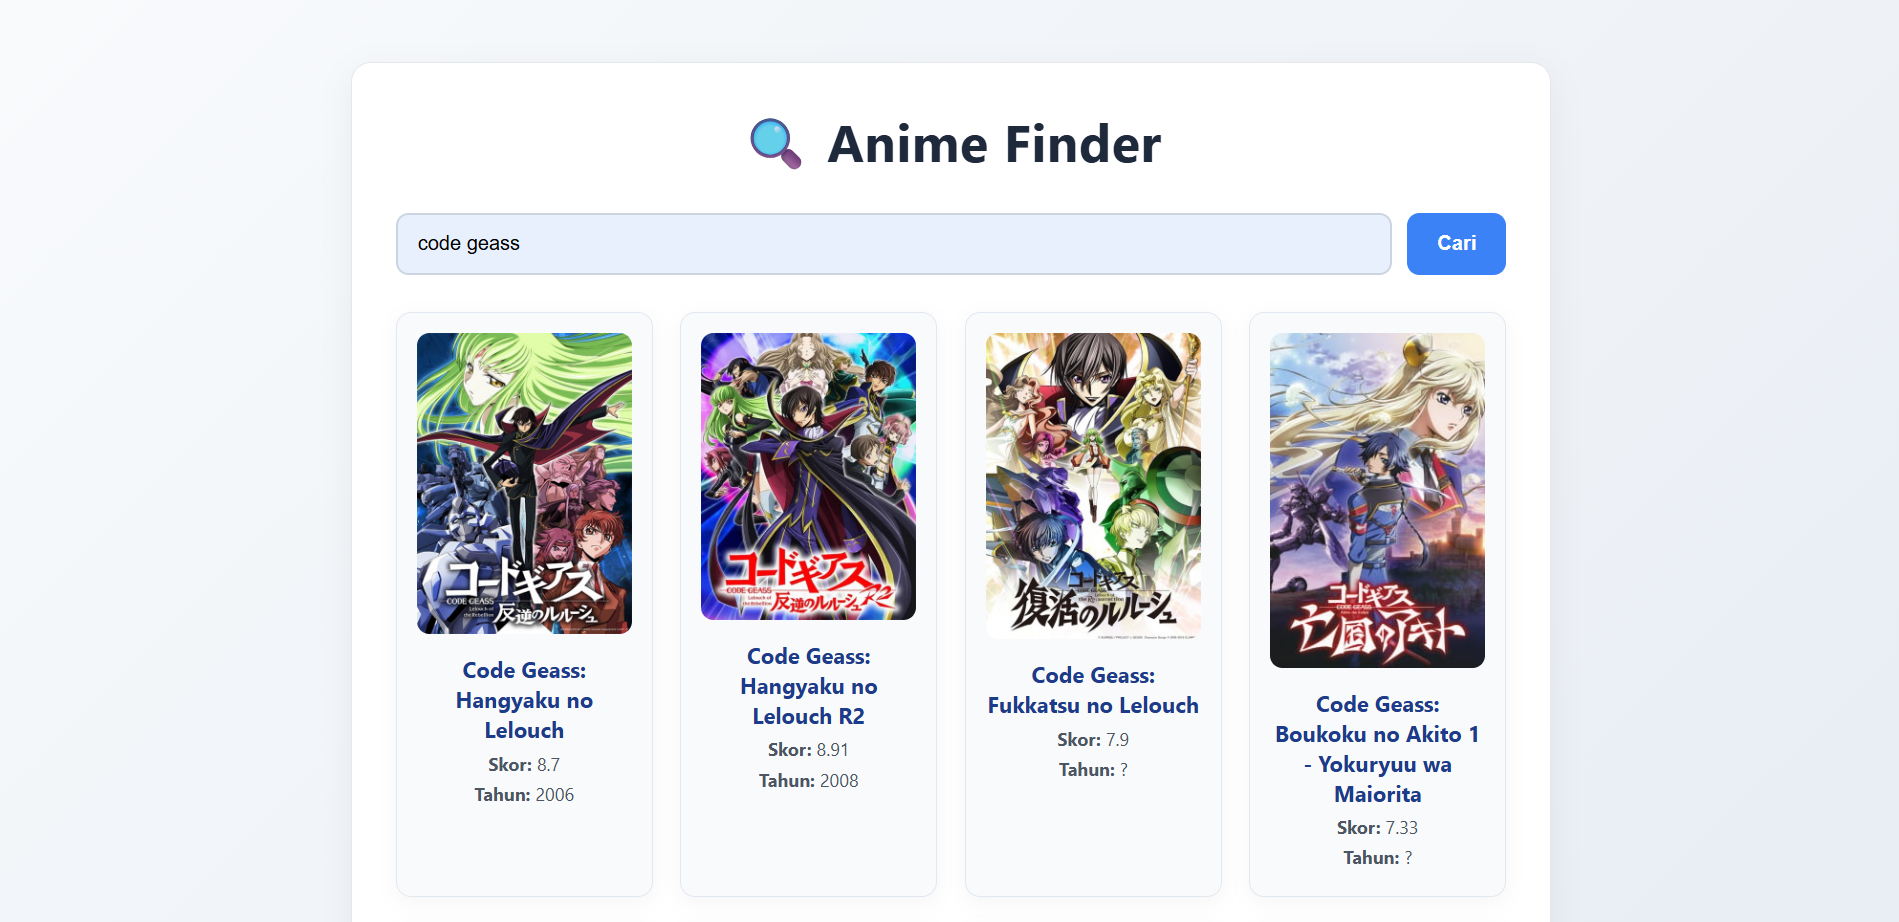
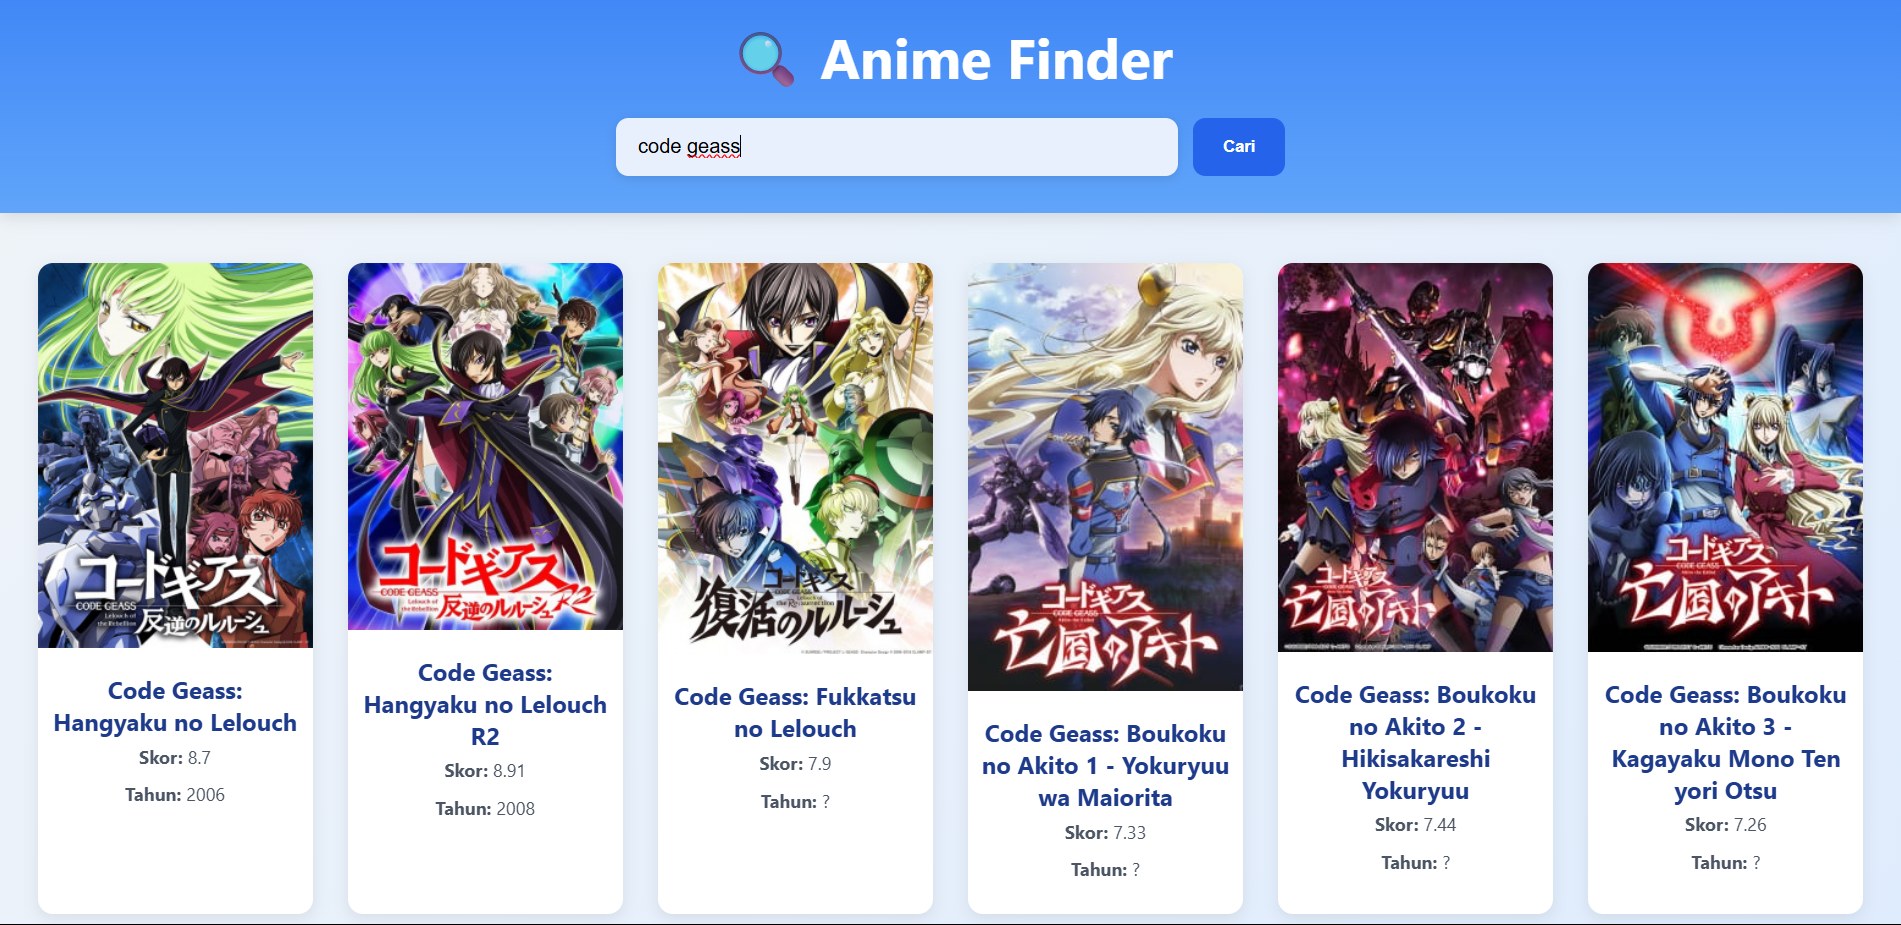
upddate anime finder

diff --git a/projects/Anime Finder/style.css b/projects/Anime Finder/style.css
@@ -1,3 +1,4 @@
+
 * {
   margin: 0;
   padding: 0;
@@ -5,123 +6,103 @@
 }
 
 body {
-  background: linear-gradient(135deg, #f8fafc, #e2e8f0);
+  min-height: 100vh;
+  background: linear-gradient(135deg, #f0f4f8, #dbeafe);
   font-family: 'Segoe UI', 'Poppins', sans-serif;
   color: #1f2937;
-  min-height: 100vh;
   display: flex;
-  justify-content: center;
-  align-items: flex-start;
-  padding: 50px 20px;
+  flex-direction: column;
 }
 
-.container {
-  background: #ffffff;
-  border-radius: 16px;
-  padding: 35px;
-  width: 100%;
-  max-width: 960px;
-  box-shadow: 0 8px 25px rgba(0, 0, 0, 0.05);
-  border: 1px solid #e5e7eb;
-  transition: box-shadow 0.3s ease;
-}
-
-.container:hover {
-  box-shadow: 0 12px 35px rgba(0, 0, 0, 0.08);
-}
-
-h1 {
-  font-size: 2.6rem;
+header {
+  padding: 50px 20px 30px;
   text-align: center;
-  margin-bottom: 30px;
-  color: #1e293b;
-  letter-spacing: 0.5px;
+  background: linear-gradient(180deg, #3b82f6, #60a5fa);
+  color: white;
+  box-shadow: 0 4px 12px rgba(0, 0, 0, 0.1);
+}
+
+header h1 {
+  font-size: 2.8rem;
+  margin-bottom: 20px;
 }
 
 .search-form {
   display: flex;
+  justify-content: center;
   gap: 12px;
-  margin-bottom: 30px;
   flex-wrap: wrap;
 }
 
 .search-form input {
-  flex: 1;
-  padding: 14px 16px;
-  border: 2px solid #cbd5e1; 
+  padding: 14px 18px;
   border-radius: 10px;
+  border: none;
+  flex: 1;
+  max-width: 450px;
   font-size: 1rem;
-  background-color: #ffffff;
-  color: #1f2937;
   outline: none;
-  transition: border-color 0.3s ease, box-shadow 0.3s ease;
-}
-
-.search-form input:focus {
-  border-color: #3b82f6;
-  box-shadow: 0 0 0 3px rgba(59, 130, 246, 0.2);
+  box-shadow: 0 2px 8px rgba(0, 0, 0, 0.1);
 }
 
 .search-form button {
   padding: 14px 24px;
-  background-color: #3b82f6;
+  background-color: #2563eb;
   color: white;
   border: none;
   border-radius: 10px;
   cursor: pointer;
-  font-size: 1rem;
-  font-weight: 600;
+  font-weight: bold;
   transition: background 0.3s ease, transform 0.2s ease;
 }
 
 .search-form button:hover {
-  background-color: #2563eb; 
+  background-color: #1d4ed8;
   transform: translateY(-2px);
 }
 
+
 .results-grid {
+  padding: 40px 30px;
   display: grid;
-  grid-template-columns: repeat(auto-fit, minmax(200px, 1fr));
-  gap: 22px;
+  grid-template-columns: repeat(auto-fit, minmax(220px, 1fr));
+  gap: 28px;
 }
 
 .anime-card {
-  background-color: #f9fafb;
+  background-color: white;
   border-radius: 12px;
-  padding: 16px;
-  text-align: center;
-  color: #1f2937;
-  box-shadow: 0 4px 15px rgba(0, 0, 0, 0.04);
-  border: 1px solid #e2e8f0;
+  overflow: hidden;
+  box-shadow: 0 4px 12px rgba(0, 0, 0, 0.08);
   transition: transform 0.3s ease, box-shadow 0.3s ease;
+  display: flex;
+  flex-direction: column;
+  text-align: center;
+  padding-bottom: 15px;
 }
 
 .anime-card:hover {
-  transform: translateY(-5px);
-  box-shadow: 0 10px 25px rgba(0, 0, 0, 0.08);
+  transform: translateY(-6px);
+  box-shadow: 0 12px 30px rgba(0, 0, 0, 0.1);
 }
 
 .anime-card img {
   width: 100%;
   height: auto;
-  border-radius: 10px;
-  margin-bottom: 12px;
-  transition: transform 0.3s ease;
-}
-
-.anime-card:hover img {
-  transform: scale(1.03);
+  object-fit: cover;
+  margin-bottom: 10px;
 }
 
 .anime-card h3 {
-  font-size: 1.1rem;
-  margin-bottom: 6px;
-  color: #1e3a8a; 
+  font-size: 1.2rem;
+  color: #1e3a8a;
+  margin: 10px 0 6px;
+  padding: 0 10px;
 }
 
 .anime-card p {
   font-size: 0.9rem;
-  color: #4b5563; 
-  margin-bottom: 4px;
+  color: #4b5563;
+  margin: 0 12px 10px;
   line-height: 1.4;
 }

diff --git a/projects/Anime Finder/index.html b/projects/Anime Finder/index.html
@@ -1,29 +1,25 @@
 <!DOCTYPE html>
 <html lang="en">
 <head>
-  <meta charset="UTF-8" />
-  <meta name="viewport" content="width=device-width, initial-scale=1.0" />
+  <meta charset="UTF-8">
+  <meta name="viewport" content="width=device-width, initial-scale=1.0">
   <title>Anime Finder</title>
-  <link rel="stylesheet" href="style.css" />
+  <link rel="stylesheet" href="style.css">
 </head>
 <body>
-  <div class="container">
-    <h1>🔍 Anime Finder</h1>
 
+  <header>
+    <h1>🔍 Anime Finder</h1>
     <form id="animeForm" class="search-form">
-      <input 
-        type="text" 
-        id="searchInput" 
-        placeholder="Cari anime (misal: Naruto)" 
-        required 
-      />
+      <input type="text" id="searchInput" placeholder="Cari anime favorit...">
       <button type="submit">Cari</button>
     </form>
+  </header>
 
-    <div id="results" class="results-grid">
-   
-    </div>
-  </div>
+  <main id="results" class="results-grid">
+ 
+  </main>
+
   <script src="script.js"></script>
 </body>
 </html>
